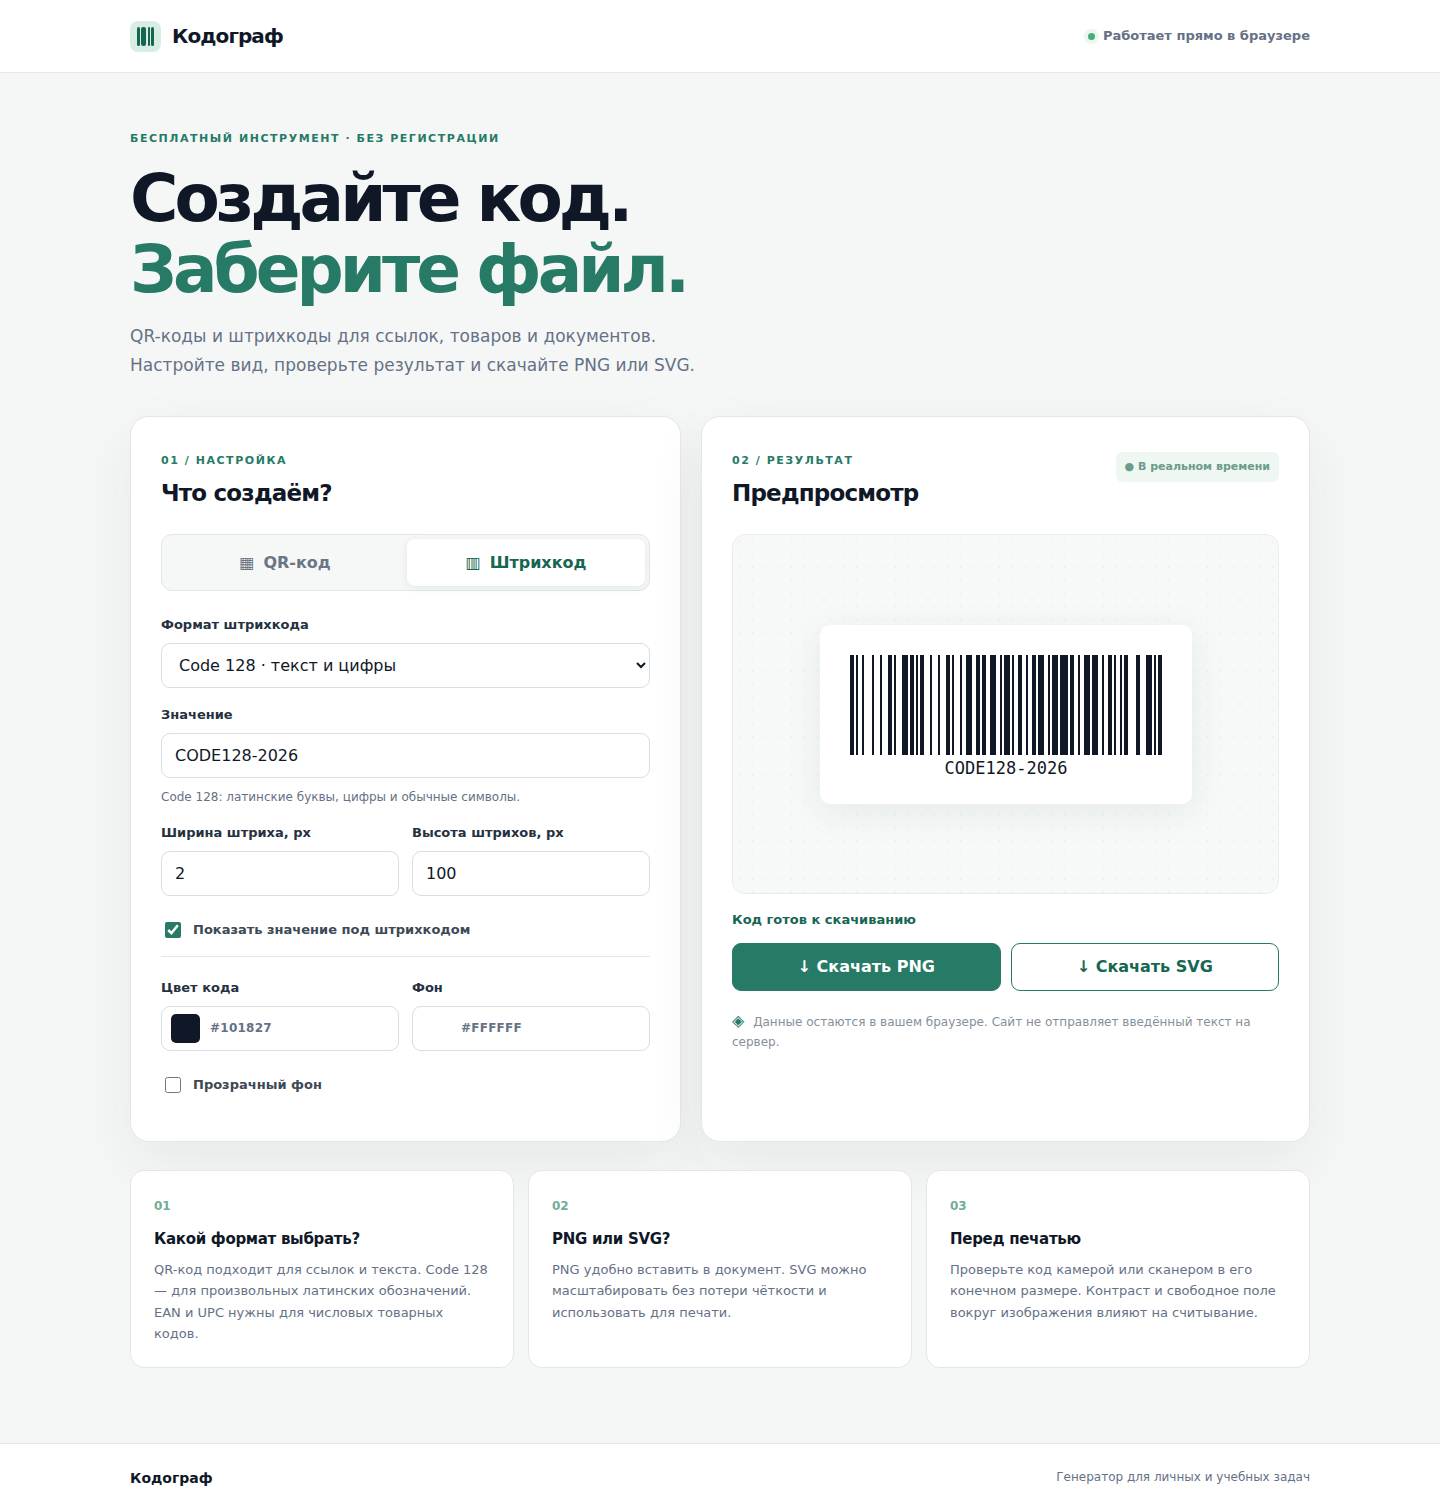
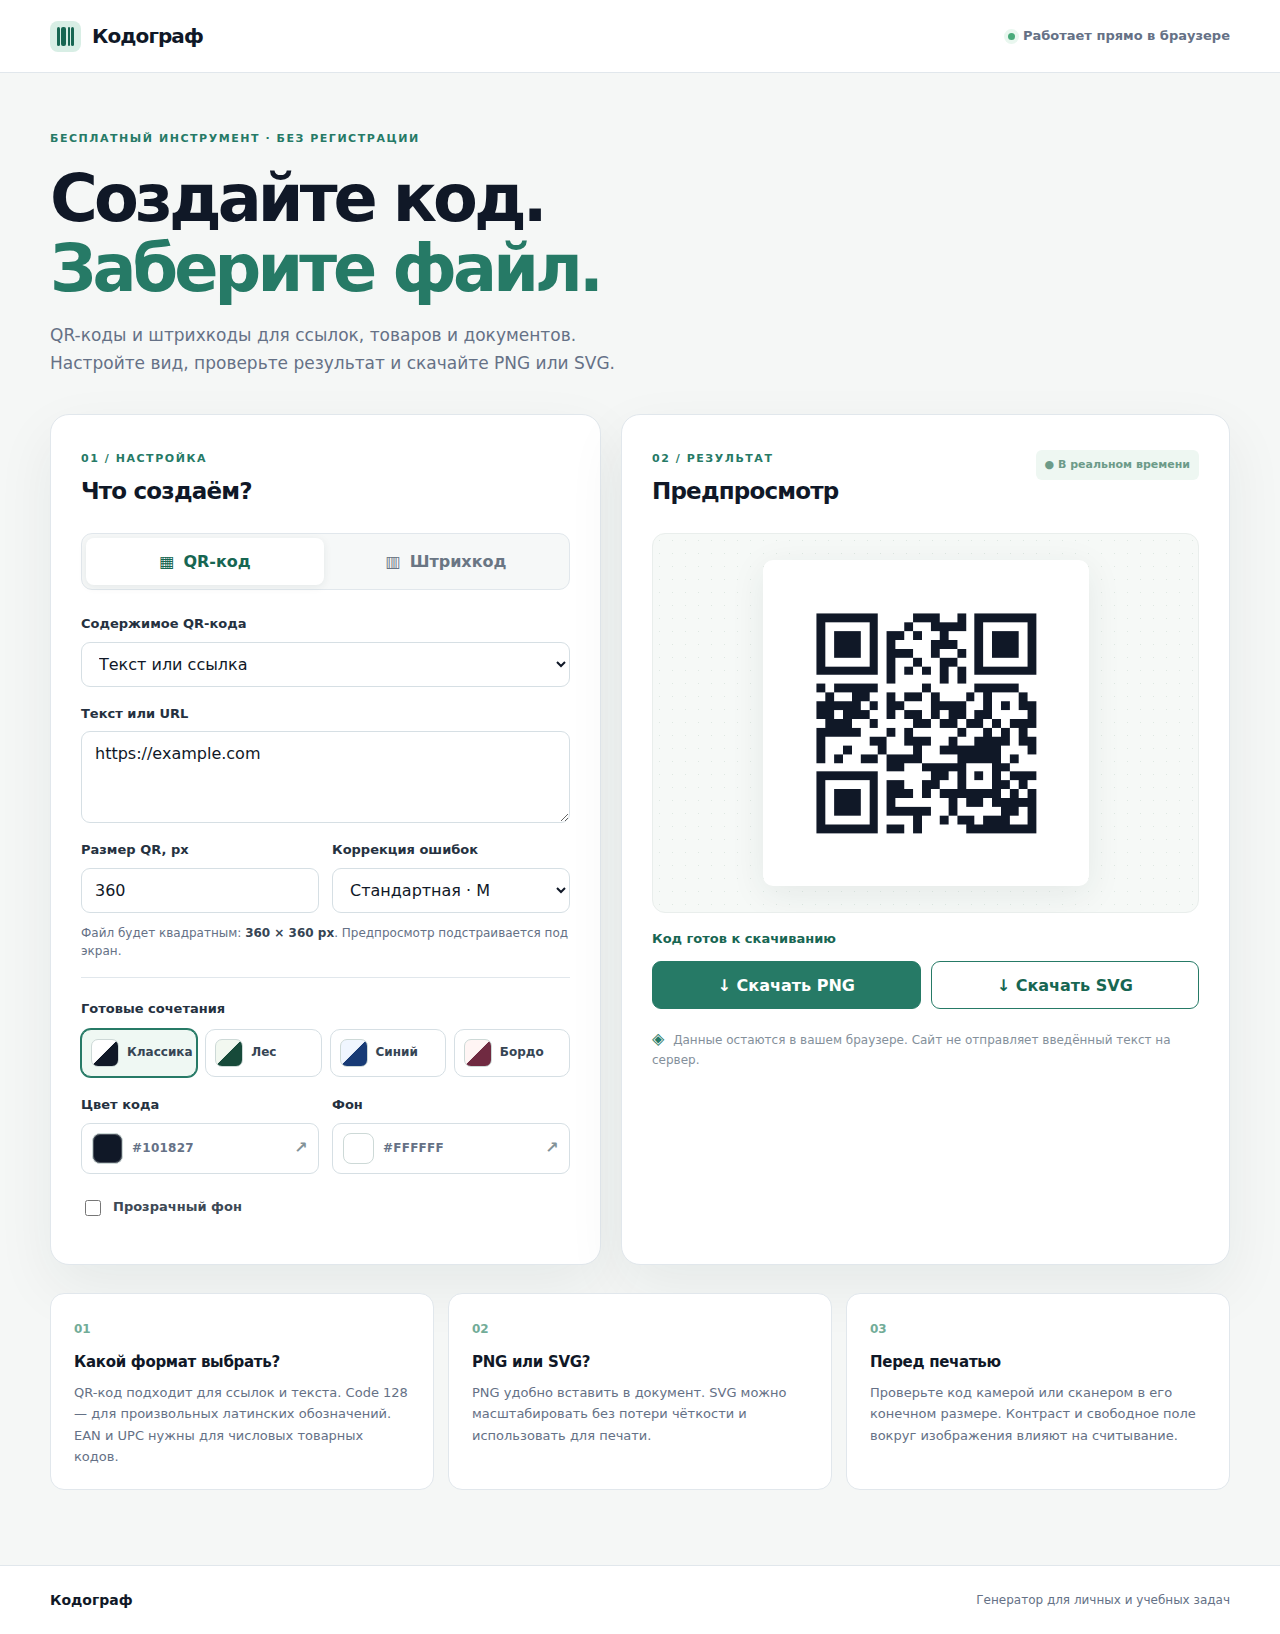
Fix QR preview and color picker

diff --git a/index.html b/index.html
@@ -66,9 +66,10 @@
               <label class="field" for="qr-contact"><span id="qr-contact-label">Адрес</span><input id="qr-contact" maxlength="320" autocomplete="off" placeholder="name@example.com"></label>
             </div>
             <div class="field-row">
-              <label class="field" for="qr-size"><span>Размер файла, px</span><input id="qr-size" type="number" min="160" max="1200" step="10" value="360"></label>
+              <label class="field" for="qr-size"><span>Размер QR, px</span><input id="qr-size" type="number" min="160" max="1200" step="10" value="360"></label>
               <label class="field" for="qr-error"><span>Коррекция ошибок</span><select id="qr-error"><option value="M">Стандартная · M</option><option value="L">Низкая · L</option><option value="Q">Высокая · Q</option><option value="H">Максимальная · H</option></select></label>
             </div>
+            <p class="size-note">Файл будет квадратным: <strong id="qr-size-note">360 × 360 px</strong>. Предпросмотр подстраивается под экран.</p>
           </div>
 
           <div id="barcode-fields" hidden>
@@ -92,9 +93,18 @@
           </div>
 
           <div class="divider"></div>
+          <fieldset class="palette">
+            <legend>Готовые сочетания</legend>
+            <div class="palette-options">
+              <button type="button" class="palette-option selected" data-foreground="#101827" data-background="#FFFFFF" aria-pressed="true"><span class="palette-sample" style="--sample-code:#101827;--sample-bg:#FFFFFF" aria-hidden="true"></span><span>Классика</span></button>
+              <button type="button" class="palette-option" data-foreground="#174A3A" data-background="#F2F8F0" aria-pressed="false"><span class="palette-sample" style="--sample-code:#174A3A;--sample-bg:#F2F8F0" aria-hidden="true"></span><span>Лес</span></button>
+              <button type="button" class="palette-option" data-foreground="#183B76" data-background="#F0F6FF" aria-pressed="false"><span class="palette-sample" style="--sample-code:#183B76;--sample-bg:#F0F6FF" aria-hidden="true"></span><span>Синий</span></button>
+              <button type="button" class="palette-option" data-foreground="#702A41" data-background="#FFF5F4" aria-pressed="false"><span class="palette-sample" style="--sample-code:#702A41;--sample-bg:#FFF5F4" aria-hidden="true"></span><span>Бордо</span></button>
+            </div>
+          </fieldset>
           <div class="color-row">
-            <label class="field color-field" for="foreground"><span>Цвет кода</span><span class="color-control"><input id="foreground" type="color" value="#101827"><span id="foreground-hex">#101827</span></span></label>
-            <label class="field color-field" for="background"><span>Фон</span><span class="color-control"><input id="background" type="color" value="#ffffff"><span id="background-hex">#FFFFFF</span></span></label>
+            <label class="field color-field" for="foreground"><span>Цвет кода</span><span class="color-control"><input id="foreground" type="color" value="#101827"><span class="color-swatch" id="foreground-swatch" aria-hidden="true"></span><span id="foreground-hex">#101827</span><span class="color-control-arrow" aria-hidden="true">↗</span></span></label>
+            <label class="field color-field" for="background"><span>Фон</span><span class="color-control"><input id="background" type="color" value="#ffffff"><span class="color-swatch" id="background-swatch" aria-hidden="true"></span><span id="background-hex">#FFFFFF</span><span class="color-control-arrow" aria-hidden="true">↗</span></span></label>
           </div>
           <label class="checkline"><input id="transparent" type="checkbox"> Прозрачный фон</label>
           <p id="transparent-hint" class="hint" hidden>Для надёжного сканирования размещайте код на светлой однотонной поверхности.</p>

diff --git a/styles.css b/styles.css
@@ -9,3 +9,25 @@
 @media(max-width:940px){.workspace{grid-template-columns:1fr}.intro{padding-top:44px}.preview-stage{min-height:310px}.info-grid{padding-bottom:55px}}
 @media(max-width:620px){.shell{width:min(100% - 28px,1180px)}.topbar-inner{height:62px}.topbar-note{font-size:0}.topbar-note .status-dot{display:block}.intro{padding:38px 0 28px}.intro p{font-size:15px}.editor,.result{padding:21px}.card-heading h2{font-size:21px}.preview-stage{min-height:270px;padding:16px}.preview-art{padding:12px}.info-grid{grid-template-columns:1fr;gap:9px;padding:17px 0 45px}.footer-inner{align-items:flex-start;flex-direction:column;justify-content:center;padding-block:14px;gap:4px}.live-indicator{font-size:0;min-width:11px;height:11px;padding:0;background:#64af86;border-radius:50%;margin-top:12px}}
 @media(max-width:370px){.field-row,.color-row,.download-actions{grid-template-columns:1fr}.preview-stage{min-height:225px}}
+
+/* The bitmap is always square; only its on-screen size is responsive. */
+.preview-art canvas{width:290px;max-width:100%;height:auto;aspect-ratio:1/1}
+.size-note{margin:-7px 0 17px;color:var(--muted);font-size:12px;line-height:1.5}
+.size-note strong{color:#364554;font-weight:700}
+.palette{border:0;padding:0;margin:0 0 19px;min-width:0}
+.palette legend{padding:0;margin-bottom:10px;font-size:13px;font-weight:700;color:#253140}
+.palette-options{display:grid;grid-template-columns:repeat(4,minmax(0,1fr));gap:8px}
+.palette-option{display:flex;align-items:center;gap:8px;min-width:0;min-height:48px;padding:7px 9px;border:1px solid #d6dfe4;border-radius:10px;background:#fff;color:#364554;text-align:left;font-size:12px;font-weight:700;transition:border-color .15s,background .15s,box-shadow .15s}
+.palette-option:hover{border-color:#77ae9b;background:#f8fcfa}
+.palette-option.selected{border-color:var(--accent);background:#eff8f3;box-shadow:0 0 0 1px var(--accent)}
+.palette-option:focus-visible{outline:3px solid #82bbac;outline-offset:2px}
+.palette-sample{flex:none;display:block;width:28px;height:28px;border:1px solid #cdd9d7;border-radius:7px;background:linear-gradient(135deg,var(--sample-bg) 0 48%,var(--sample-code) 49% 100%)}
+.color-field{min-width:0}.color-control{position:relative;min-width:0;height:51px;gap:9px;padding:6px 10px;cursor:pointer;transition:border-color .15s,box-shadow .15s}
+.color-control:hover{border-color:#77ae9b}
+.color-control:focus-within{border-color:var(--accent);box-shadow:0 0 0 3px rgba(38,122,102,.12)}
+.color-control input[type=color]{position:absolute;inset:0;width:100%;height:100%;opacity:0;cursor:pointer}
+.color-control input[type=color]:disabled{cursor:not-allowed}
+.color-control:has(input:disabled){opacity:.48;cursor:not-allowed}
+.color-swatch{flex:none;width:31px;height:31px;border:1px solid #cdd9d7;border-radius:8px;background:#fff;box-shadow:inset 0 0 0 1px rgba(255,255,255,.25)}
+.color-control-arrow{margin-left:auto;color:#839398;font-size:16px;line-height:1}
+@media(max-width:620px){.palette-options{grid-template-columns:repeat(2,minmax(0,1fr))}}

diff --git a/app.js b/app.js
@@ -91,6 +91,21 @@
     return { dark, light, transparent };
   }
 
+  function syncColorControls() {
+    const foreground = $("foreground").value.toUpperCase();
+    const background = $("background").value.toUpperCase();
+    const transparent = $("transparent").checked;
+    $("foreground-hex").textContent = foreground;
+    $("background-hex").textContent = background;
+    $("foreground-swatch").style.backgroundColor = foreground;
+    $("background-swatch").style.backgroundColor = background;
+    for (const option of document.querySelectorAll(".palette-option")) {
+      const selected = !transparent && option.dataset.foreground.toUpperCase() === foreground && option.dataset.background.toUpperCase() === background;
+      option.classList.toggle("selected", selected);
+      option.setAttribute("aria-pressed", String(selected));
+    }
+  }
+
   function barcodeOptions() {
     const { dark, light, transparent } = colors();
     return {
@@ -148,8 +163,8 @@
     $("preview").classList.toggle("transparent-preview", $("transparent").checked);
     $("background").disabled = $("transparent").checked;
     $("transparent-hint").hidden = !$("transparent").checked;
-    $("foreground-hex").textContent = $("foreground").value.toUpperCase();
-    $("background-hex").textContent = $("background").value.toUpperCase();
+    $("qr-size-note").textContent = `${$("qr-size").value || "—"} × ${$("qr-size").value || "—"} px`;
+    syncColorControls();
     try {
       if (mode === "barcode") {
         const value = $("barcode-value").value;
@@ -165,6 +180,9 @@
         const canvas = document.createElement("canvas");
         await QRCode.toCanvas(canvas, payload, qrOptions());
         if (seq !== renderSequence) return;
+        // The QR library fixes both CSS dimensions inline; let the preview scale as a square.
+        canvas.style.removeProperty("width");
+        canvas.style.removeProperty("height");
         canvas.setAttribute("aria-hidden", "true");
         $("preview").replaceChildren(canvas);
       }
@@ -253,6 +271,17 @@
 
   $("mode-qr").addEventListener("click", () => setMode("qr"));
   $("mode-barcode").addEventListener("click", () => setMode("barcode"));
+  for (const option of document.querySelectorAll(".palette-option")) {
+    option.addEventListener("click", () => {
+      $("foreground").value = option.dataset.foreground;
+      $("background").value = option.dataset.background;
+      $("transparent").checked = false;
+      syncColorControls();
+      scheduleRender();
+    });
+  }
+  $("foreground").addEventListener("input", syncColorControls);
+  $("background").addEventListener("input", syncColorControls);
   $("qr-kind").addEventListener("change", setQRKind);
   $("barcode-format").addEventListener("change", () => {
     const [example, hint] = formatExamples[$("barcode-format").value];
